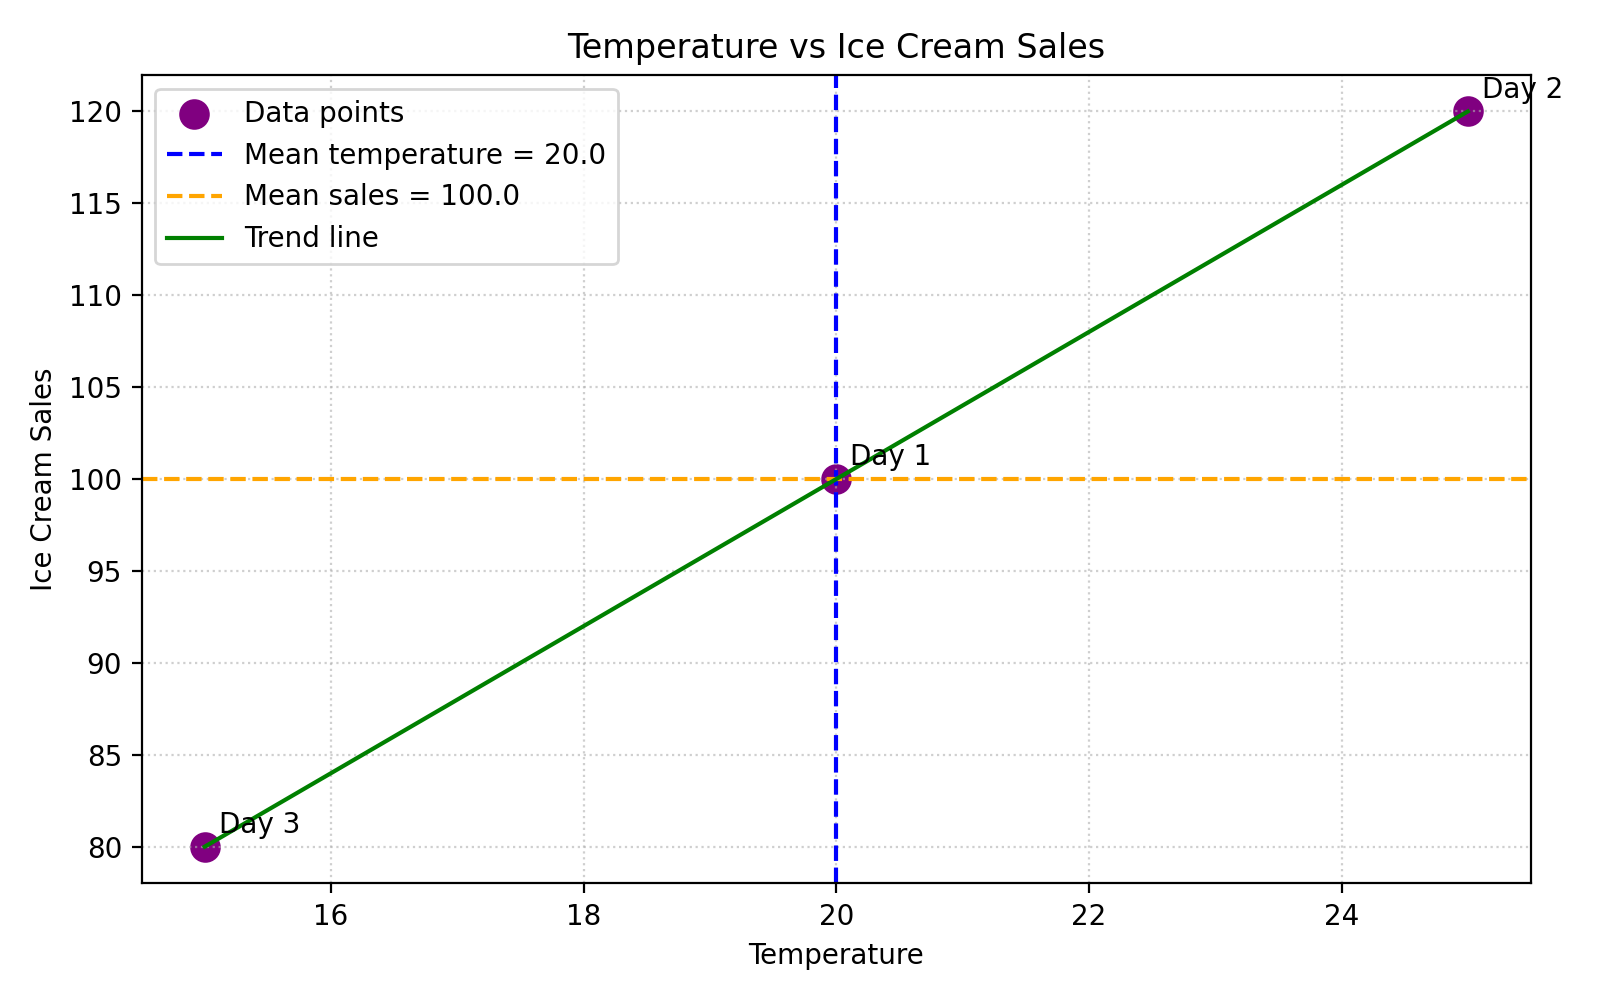
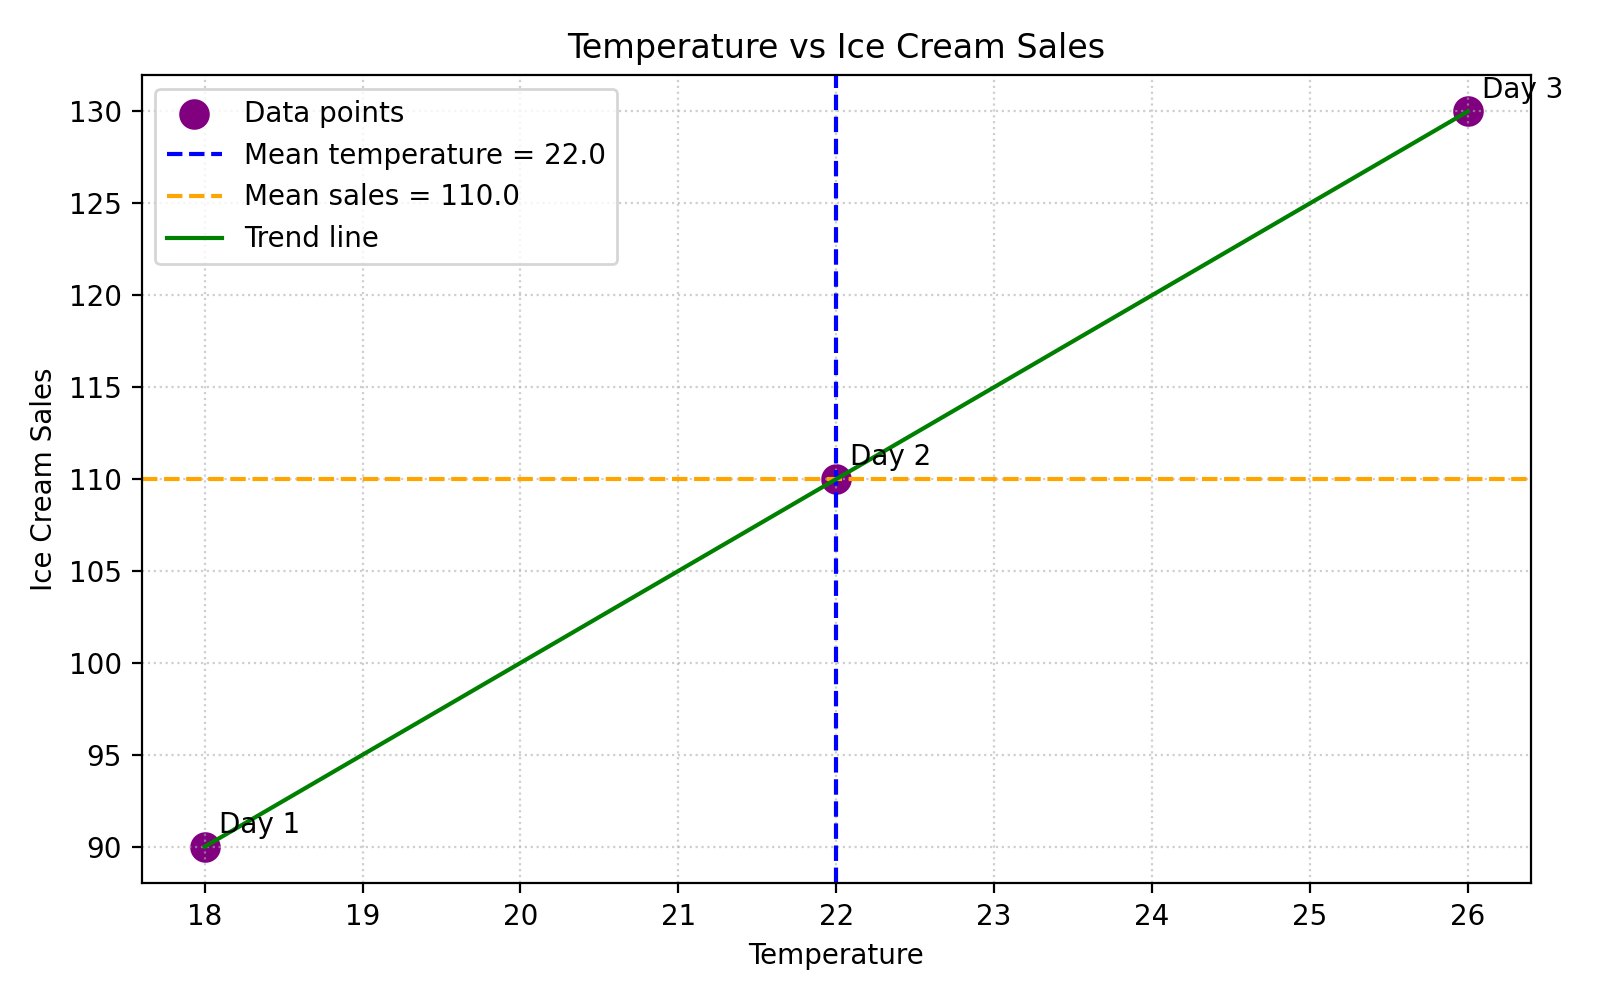
replace example numbers with original datasets

diff --git a/standard_deviation_lab.py b/standard_deviation_lab.py
@@ -1,0 +1,27 @@
+import math
+
+# Custom dataset for Assessment 1
+books_read = [8, 8, 8, 8, 12, 12, 12, 12]
+
+# Step 1: Calculate the mean (average)
+mean_books = sum(books_read) / len(books_read)
+
+# Step 2: Calculate the deviations from the mean
+deviations = [value - mean_books for value in books_read]
+
+# Step 3: Square each deviation
+squared_differences = [value ** 2 for value in deviations]
+
+# Step 4: Calculate the variance
+variance = sum(squared_differences) / len(books_read)
+
+# Step 5: Take the square root of the variance to get the standard deviation
+standard_deviation = math.sqrt(variance)
+
+print("Standard Deviation Lab")
+print(f"Dataset: {books_read}")
+print(f"Mean: {mean_books}")
+print(f"Deviations from the mean: {deviations}")
+print(f"Squared differences: {squared_differences}")
+print(f"Variance: {variance}")
+print(f"Standard deviation: {standard_deviation}")

diff --git a/README.md b/README.md
@@ -1,156 +1,149 @@
-# Covariance and Correlation Lab
+# Statistics Lab Portfolio
 
-This project demonstrates how to calculate and interpret covariance and the correlation coefficient using temperature and ice cream sales.
+This repository now contains both assessments completed with original datasets while following the formulas and process shown in the assignments.
 
-## Learning Objectives
-By the end of this exercise, learners will be able to:
-- Calculate covariance and correlation to understand the direction and strength of relationships.
-- Interpret the relationship between two variables using covariance and correlation coefficient.
-- Explain the significance of positive and negative correlations in context.
-- Evaluate findings through a visual representation to determine the strength and direction of the relationship.
+## Assessment 1: Standard Deviation
 
-## Lab Overview
-This lab shows how to calculate and interpret covariance and correlation coefficients to understand relationships between variables.
+### Custom Dataset
+`8, 8, 8, 8, 12, 12, 12, 12`
 
-By examining temperature and ice cream sales, we:
-- Calculate means for both variables.
-- Compute covariance to measure the direction of the relationship.
-- Calculate standard deviations for both variables.
-- Derive the correlation coefficient.
-- Use a scatter plot and trend line to visually confirm the relationship.
+### Step 1: Calculate the Mean
+- `(8 + 8 + 8 + 8 + 12 + 12 + 12 + 12) / 8`
+- `80 / 8 = 10`
 
-## Scenario
-We want to understand the relationship between two variables:
-- **Temperature (X):** As the temperature rises, people are more likely to buy ice cream.
-- **Ice Cream Sales (Y):** Higher ice cream sales are expected on hotter days.
+### Step 2: Calculate the Deviations from the Mean
+- `8 - 10 = -2`
+- `8 - 10 = -2`
+- `8 - 10 = -2`
+- `8 - 10 = -2`
+- `12 - 10 = 2`
+- `12 - 10 = 2`
+- `12 - 10 = 2`
+- `12 - 10 = 2`
 
-This is a positive relationship because both variables move in the same direction.
+### Step 3: Square Each Deviation
+- `(-2)^2 = 4`
+- `(-2)^2 = 4`
+- `(-2)^2 = 4`
+- `(-2)^2 = 4`
+- `(2)^2 = 4`
+- `(2)^2 = 4`
+- `(2)^2 = 4`
+- `(2)^2 = 4`
 
-## Dataset
-Daily temperature and ice cream sales for three days:
+### Step 4: Calculate the Variance
+- `(4 + 4 + 4 + 4 + 4 + 4 + 4 + 4) / 8`
+- `32 / 8 = 4`
 
-- Day 1: Temperature = `20`, Ice Cream Sales = `100`
-- Day 2: Temperature = `25`, Ice Cream Sales = `120`
-- Day 3: Temperature = `15`, Ice Cream Sales = `80`
+### Step 5: Calculate the Standard Deviation
+- `√4 = 2`
 
-## Step 1: Calculate the Means (Averages)
-- Mean temperature: `(20 + 25 + 15) / 3 = 60 / 3 = 20`
-- Mean ice cream sales: `(100 + 120 + 80) / 3 = 300 / 3 = 100`
+### Result
+The standard deviation of the dataset is **2**.
 
-## Step 2: Calculate Deviations from the Mean of X and Y
-### Temperature Deviations
-- Day 1: `20 - 20 = 0`
-- Day 2: `25 - 20 = 5`
-- Day 3: `15 - 20 = -5`
+---
 
-### Ice Cream Sales Deviations
-- Day 1: `100 - 100 = 0`
-- Day 2: `120 - 100 = 20`
-- Day 3: `80 - 100 = -20`
+## Assessment 2: Covariance and Correlation
 
-## Step 3: Multiply Deviations and Calculate Covariance of X and Y
-- Day 1: `0 × 0 = 0`
-- Day 2: `5 × 20 = 100`
-- Day 3: `-5 × -20 = 100`
+### Custom Dataset
+- Day 1: Temperature = `18`, Ice Cream Sales = `90`
+- Day 2: Temperature = `22`, Ice Cream Sales = `110`
+- Day 3: Temperature = `26`, Ice Cream Sales = `130`
+
+### Step 1: Calculate the Means
+- Mean temperature: `(18 + 22 + 26) / 3 = 66 / 3 = 22`
+- Mean sales: `(90 + 110 + 130) / 3 = 330 / 3 = 110`
+
+### Step 2: Calculate Deviations from the Mean
+#### Temperature Deviations
+- `18 - 22 = -4`
+- `22 - 22 = 0`
+- `26 - 22 = 4`
+
+#### Ice Cream Sales Deviations
+- `90 - 110 = -20`
+- `110 - 110 = 0`
+- `130 - 110 = 20`
+
+### Step 3: Multiply Deviations and Calculate Covariance
+- `(-4) × (-20) = 80`
+- `0 × 0 = 0`
+- `4 × 20 = 80`
 
 Sum of products:
-- `0 + 100 + 100 = 200`
+- `80 + 0 + 80 = 160`
 
 Covariance:
-- `200 / 3 = 66.66666666666667`
+- `160 / 3 = 53.333333333333336`
 
-The positive covariance shows that as temperature increases, ice cream sales also increase.
+This positive covariance shows that as temperature increases, ice cream sales also increase.
 
-## Step 4: Calculate the Correlation Coefficient
-To calculate correlation, we first find the standard deviation for each variable.
+### Step 4: Calculate the Correlation Coefficient
+#### 4.1 Square Each Deviation
+Temperature squared deviations:
+- `(-4)^2 = 16`
+- `0^2 = 0`
+- `(4)^2 = 16`
 
-### 4.1 Square Each Deviation
-#### Temperature Deviations Squared
-- `0² = 0`
-- `5² = 25`
-- `(-5)² = 25`
+Sales squared deviations:
+- `(-20)^2 = 400`
+- `0^2 = 0`
+- `(20)^2 = 400`
 
-#### Ice Cream Sales Deviations Squared
-- `0² = 0`
-- `20² = 400`
-- `(-20)² = 400`
+#### 4.2 Calculate the Variance
+Temperature variance:
+- `(16 + 0 + 16) / 3 = 32 / 3 = 10.666666666666666`
 
-### 4.2 Calculate the Mean of the Squared Deviations
-#### Temperature Variance
-- `(0 + 25 + 25) / 3 = 50 / 3 = 16.666666666666668`
+Sales variance:
+- `(400 + 0 + 400) / 3 = 800 / 3 = 266.6666666666667`
 
-#### Ice Cream Sales Variance
-- `(0 + 400 + 400) / 3 = 800 / 3 = 266.6666666666667`
+#### 4.3 Calculate the Standard Deviations
+- Temperature standard deviation: `√10.666666666666666 = 3.265986323710904`
+- Sales standard deviation: `√266.6666666666667 = 16.32993161855452`
 
-### 4.3 Take the Square Root of the Variance to Get the Standard Deviation
-- Temperature standard deviation: `√16.666666666666668 = 4.08248290463863`
-- Ice cream sales standard deviation: `√266.6666666666667 = 16.32993161855452`
-
-### 4.4 Add Values to the Correlation Coefficient Formula
+#### 4.4 Apply the Correlation Formula
 - `r = covariance / (σx × σy)`
-- `r = 66.66666666666667 / (4.08248290463863 × 16.32993161855452)`
+- `r = 53.333333333333336 / (3.265986323710904 × 16.32993161855452)`
 - `r = 1.0`
 
-## Calculation Result
-The correlation coefficient is **1.0**, which is a perfect positive correlation.
+### Result
+The correlation coefficient is **1.0**, which means a perfect positive relationship in this custom dataset.
 
-This means:
-- As temperature increases, ice cream sales increase.
-- The two variables move in the same direction.
-- The relationship is extremely strong and positive.
+### Interpretation
+- Positive covariance means both variables move in the same direction.
+- Positive correlation means higher temperatures are associated with higher ice cream sales.
+- A value of `1.0` shows a very strong positive linear relationship.
 
-## Positive vs Negative Correlation
-- **Positive correlation:** Both variables increase or decrease together.
-- **Negative correlation:** One variable increases while the other decreases.
-- **Zero correlation:** No linear relationship between the variables.
-
-In this lab, temperature and ice cream sales show a **positive correlation**.
-
-## Visualization
-The file `temperature_icecream_plot.png` shows:
-- The data points for temperature and ice cream sales
-- A trend line
-- Mean temperature as a dashed vertical line
-- Mean sales as a dashed horizontal line
-
-The graph visually confirms the strong positive relationship.
+### Visualization
+The graph below shows the relationship between temperature and ice cream sales.
 
 ![Temperature and Ice Cream Sales Visualization](temperature_icecream_plot.png)
 
-## Project Files
-- `covariance_correlation.py` — Python script with comments that calculates covariance, standard deviations, and correlation coefficient
-- `temperature_icecream_plot.png` — visualization of the relationship
-- `newfile.txt` — original tracked file from the repo history
+---
+
+## Files
+- `standard_deviation_lab.py` — Assessment 1 Python script
+- `covariance_correlation_lab.py` — Assessment 2 Python script
+- `temperature_icecream_plot.png` — visualization for Assessment 2
+- `requirements.txt` — Python dependency for the plot
 
 ## How to Run
-1. Create a virtual environment and install the plotting library:
+1. Create a virtual environment:
 ```bash
 python3 -m venv .venv
-.venv/bin/pip install matplotlib
 ```
 
-2. Run the program:
+2. Install dependencies:
 ```bash
-.venv/bin/python covariance_correlation.py
+.venv/bin/pip install -r requirements.txt
 ```
 
-## Expected Output
-```text
-Covariance and Correlation Lab
-Temperature data: [20, 25, 15]
-Ice cream sales data: [100, 120, 80]
-Mean temperature: 20.0
-Mean ice cream sales: 100.0
-Temperature deviations: [0.0, 5.0, -5.0]
-Sales deviations: [0.0, 20.0, -20.0]
-Products of deviations: [0.0, 100.0, 100.0]
-Covariance: 66.66666666666667
-Temperature squared deviations: [0.0, 25.0, 25.0]
-Sales squared deviations: [0.0, 400.0, 400.0]
-Temperature variance: 16.666666666666668
-Sales variance: 266.6666666666667
-Temperature standard deviation: 4.08248290463863
-Sales standard deviation: 16.32993161855452
-Correlation coefficient: 1.0
-Plot saved as temperature_icecream_plot.png
+3. Run Assessment 1:
+```bash
+.venv/bin/python standard_deviation_lab.py
+```
+
+4. Run Assessment 2:
+```bash
+.venv/bin/python covariance_correlation_lab.py
 ```